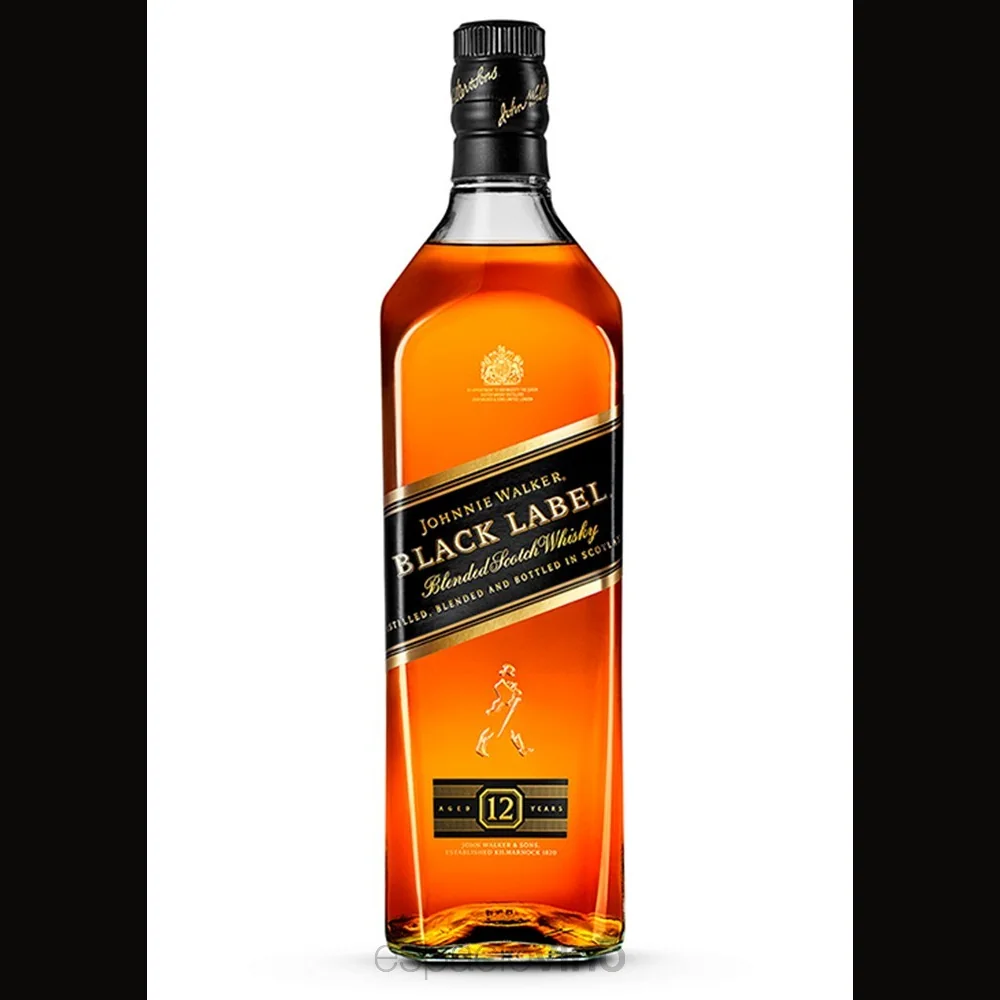
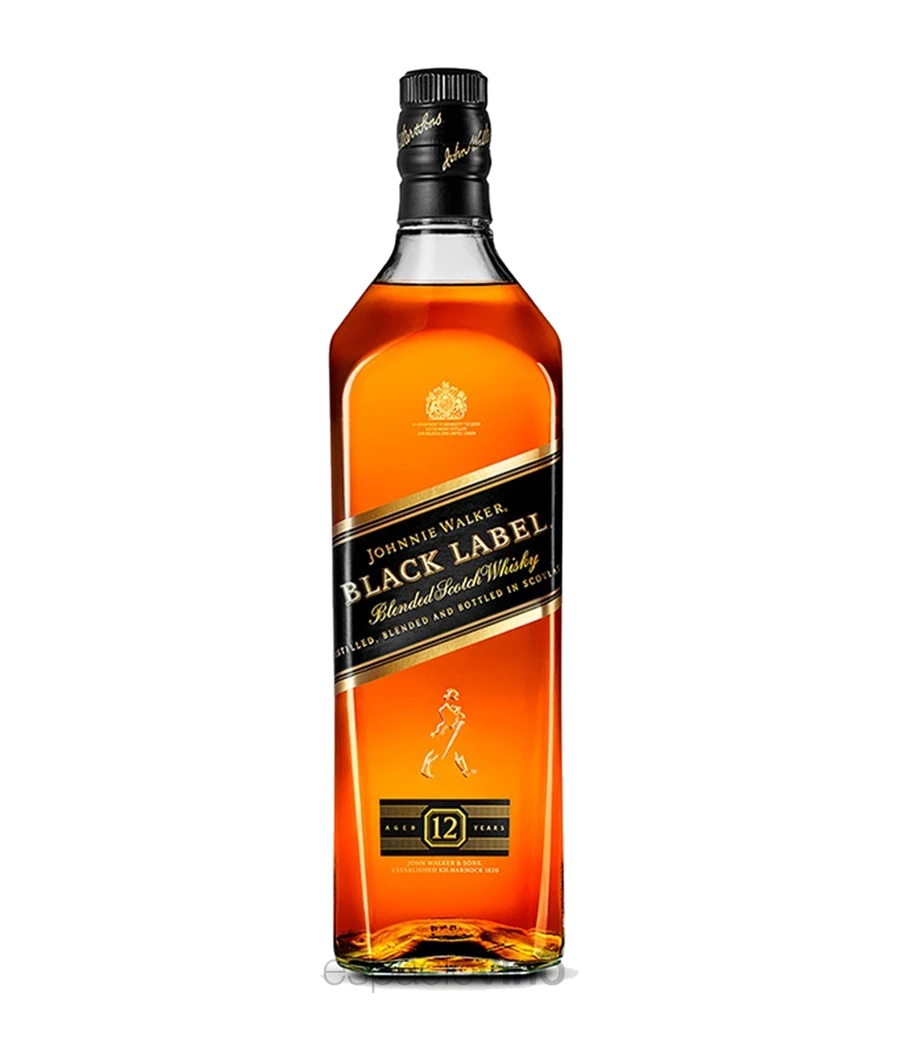
Add files via upload

diff --git a/premium.css b/premium.css
@@ -1,0 +1,98 @@
+.card {
+  position: relative;
+  isolation: isolate;
+  background-image:
+    linear-gradient(180deg, rgba(255, 210, 103, 0.04) 0%, rgba(0, 0, 0, 0.12) 58%, rgba(4, 3, 2, 0.96) 100%),
+    url("assets/marble-gold.png");
+  background-size: cover;
+  background-position: center;
+  border-color: rgba(255, 205, 91, 0.62);
+  box-shadow:
+    0 20px 56px rgba(0, 0, 0, 0.62),
+    0 0 20px rgba(214, 151, 33, 0.08),
+    inset 0 0 0 1px rgba(255, 226, 154, 0.10),
+    inset 0 1px 0 rgba(255, 236, 188, 0.18);
+}
+
+.image-wrap {
+  position: relative;
+  z-index: 0;
+  aspect-ratio: 4 / 5;
+  overflow: hidden;
+  padding: 0;
+  background: transparent;
+}
+
+.image-wrap::before {
+  content: "";
+  position: absolute;
+  z-index: -1;
+  width: 128%;
+  height: 132%;
+  left: -14%;
+  top: -10%;
+  border-radius: 50%;
+  background: radial-gradient(
+    ellipse at center,
+    rgba(255, 237, 178, 0.92) 0%,
+    rgba(255, 198, 73, 0.74) 20%,
+    rgba(214, 139, 24, 0.48) 42%,
+    rgba(117, 67, 7, 0.20) 62%,
+    transparent 79%
+  );
+  filter: blur(14px);
+}
+
+.image-wrap::after {
+  content: "";
+  position: absolute;
+  inset: auto 4% -1% 4%;
+  height: 22%;
+  border-radius: 50%;
+  background: radial-gradient(ellipse, rgba(255, 222, 126, 0.66) 0%, rgba(222, 151, 35, 0.38) 30%, transparent 72%);
+  filter: blur(11px);
+}
+
+.image-wrap img {
+  position: relative;
+  z-index: 2;
+  width: 112%;
+  height: 112%;
+  margin: -5% -6%;
+  object-fit: contain;
+  border-radius: 0;
+  filter:
+    saturate(1.10)
+    contrast(1.08)
+    brightness(1.03)
+    drop-shadow(0 0 8px rgba(255, 210, 106, 0.32))
+    drop-shadow(0 20px 15px rgba(0, 0, 0, 0.68));
+}
+
+.card-body {
+  position: relative;
+  z-index: 3;
+  margin-top: -1px;
+  background: linear-gradient(180deg, rgba(11, 8, 3, 0.82), rgba(3, 3, 3, 0.98));
+  border-top: 1px solid rgba(255, 205, 93, 0.42);
+  backdrop-filter: blur(5px);
+}
+
+.card::after {
+  content: "";
+  position: absolute;
+  inset: 0;
+  z-index: 4;
+  pointer-events: none;
+  border-radius: inherit;
+  background: linear-gradient(118deg, transparent 0 38%, rgba(255, 239, 196, 0.06) 47%, transparent 56%);
+  mix-blend-mode: screen;
+}
+
+@media (max-width: 719px) {
+  .image-wrap img {
+    width: 118%;
+    height: 118%;
+    margin: -8% -9%;
+  }
+}

diff --git a/sw.js b/sw.js
@@ -1,1 +1,1 @@
-const CACHE='sirenita-v3';const ASSETS=['./','./index.html','./styles.css','./app.js?v=3','./products.json?v=3','./assets/logo-hero.jpg'];self.addEventListener('install',e=>{self.skipWaiting();e.waitUntil(caches.open(CACHE).then(c=>c.addAll(ASSETS)))});self.addEventListener('activate',e=>e.waitUntil(caches.keys().then(keys=>Promise.all(keys.filter(k=>k!==CACHE).map(k=>caches.delete(k)))).then(()=>self.clients.claim())));self.addEventListener('fetch',e=>e.respondWith(caches.match(e.request).then(r=>r||fetch(e.request))));
+const CACHE='sirenita-v5';const ASSETS=['./','./index.html','./styles.css','./premium.css?v=5','./app.js?v=3','./products.json?v=3','./assets/logo-hero.jpg','./assets/marble-gold.png'];self.addEventListener('install',e=>{self.skipWaiting();e.waitUntil(caches.open(CACHE).then(c=>c.addAll(ASSETS)))});self.addEventListener('activate',e=>e.waitUntil(caches.keys().then(keys=>Promise.all(keys.filter(k=>k!==CACHE).map(k=>caches.delete(k)))).then(()=>self.clients.claim())));self.addEventListener('fetch',e=>e.respondWith(caches.match(e.request).then(r=>r||fetch(e.request))));

diff --git a/index.html b/index.html
@@ -8,6 +8,7 @@
   <title>Sirenita VIP — Carta de bebidas</title>
   <link rel="manifest" href="manifest.webmanifest">
   <link rel="stylesheet" href="styles.css">
+  <link rel="stylesheet" href="premium.css?v=5">
 </head>
 <body>
   <section class="hero" id="inicio" aria-label="Bienvenida a Sirenita VIP">
